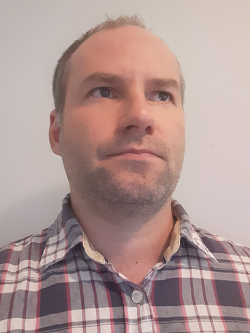
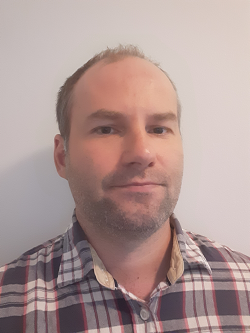
FIX picture and hyperlink change
Own picture have been changed and "buutti" hyperlink name shortened

diff --git a/opinnot.html b/opinnot.html
@@ -60,7 +60,7 @@
                     BUUTTI FULL STACK TRAINING REKRYKOULUTUS 2022<br>
                 </p>
                 <p><a class="hyperlink"
-                href="https://buuttiedu.com/tyonhakijalle/buutti-full-stack-training-rekrykoulutus/">https://buuttiedu.com/tyonhakijalle/buutti-full-stack-training-rekrykoulutus/</a>
+                href="https://buuttiedu.com/tyonhakijalle/buutti-full-stack-training-rekrykoulutus/">buuttiedu.com</a>
                 </p>
                 <a href="Javascript: ict();">Ohjelmistoalan osaaja</a>
                 <p>

diff --git a/ict.html b/ict.html
@@ -72,7 +72,7 @@
                     BUUTTI FULL STACK TRAINING REKRYKOULUTUS<br>
                 </p>
                 <p><a class="hyperlink"
-                href="https://buuttiedu.com/tyonhakijalle/buutti-full-stack-training-rekrykoulutus/">https://buuttiedu.com/tyonhakijalle/buutti-full-stack-training-rekrykoulutus/</a>
+                href="https://buuttiedu.com/tyonhakijalle/buutti-full-stack-training-rekrykoulutus/">buuttiedu.com</a>
                 <br>
                 </p>
                 <p>
